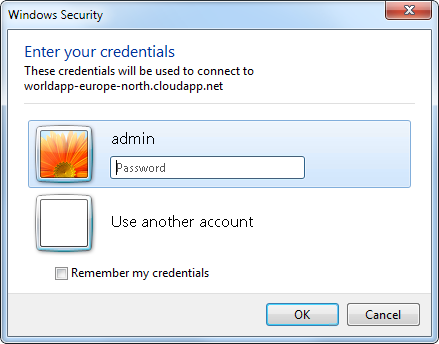
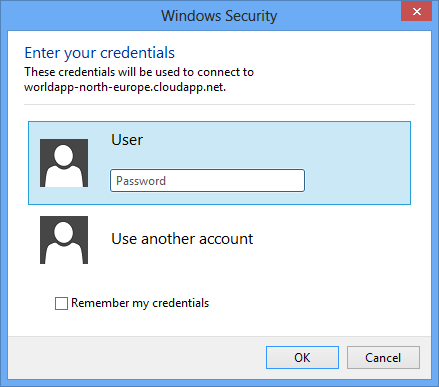
# Updated Hol document (WIP)

diff --git a/HOL.md b/HOL.md
@@ -69,11 +69,11 @@ In this Hands-On Lab, you will learn how to:
 The following is required to complete this hands-on lab:
 
 - [Microsoft .NET Framework 4.0](http://go.microsoft.com/fwlink/?linkid=186916)
-- [Microsoft Visual Studio 2010](http://msdn.microsoft.com/vstudio/products/)
+- [Microsoft Visual Studio 2012](http://msdn.microsoft.com/vstudio/products/)
 - [Windows Azure SDK and Windows Azure Tools for Microsoft Visual Studio 1.7](http://www.microsoft.com/windowsazure/sdk/)
 - A Windows Azure subscription - [sign up for a free trial](http://aka.ms/WATK-FreeTrial)
 
->**Note:** This lab was designed to use Windows 7 Operating System.
+>**Note:** This lab was designed to use Windows 8 Operating System.
 
 ---
 
@@ -107,7 +107,7 @@ In this exercise, you publish the application to multiple cloud services in your
 
 In this task, you prepare the application for deployment by enabling remote desktop access.
 
-1. Open Visual Studio in elevated administrator mode from **Start** | **All Programs** | **Microsoft Visual Studio 2010** by right-clicking the **Microsoft Visual Studio 2010** shortcut and choosing **Run as administrator**.
+1. Open Visual Studio in elevated administrator mode from **Start** | **All Programs** | **Microsoft Visual Studio 2012** by right-clicking the **Microsoft Visual Studio 2012** shortcut and choosing **Run as administrator**.
 
 1. If the **User Account Control** dialog appears, confirm that you wish to proceed.
 
@@ -177,7 +177,7 @@ To create a cloud service and deploy the application:
 
 1. Navigate to the [Windows Azure Management Portal](http://manage.windowsazure.com/) and log in with your Microsoft Account's credentials.
 
-1. Click **New** | **Cloud Service** | **Quick Create**. Select a unique **URL** for your service, for example _worldapp-europe-north_. Refer to the table at the start of this task for suggested values. The dialog validates the URL prefix as you type it and warns you if the one you choose is unavailable.
+1. Click **New** | **Compute** | **Cloud Service** | **Quick Create**. Select a unique **URL** for your service, for example _worldapp-north-europe_. Refer to the table at the start of this task for suggested values. The dialog validates the URL prefix as you type it and warns you if the one you choose is unavailable.
 
 1. To choose a region for the service, expand the drop down list labeled **Region / Affinity Group** and pick the region that corresponds to the service name and URL prefix used. Click **Create Cloud Service**.
 
